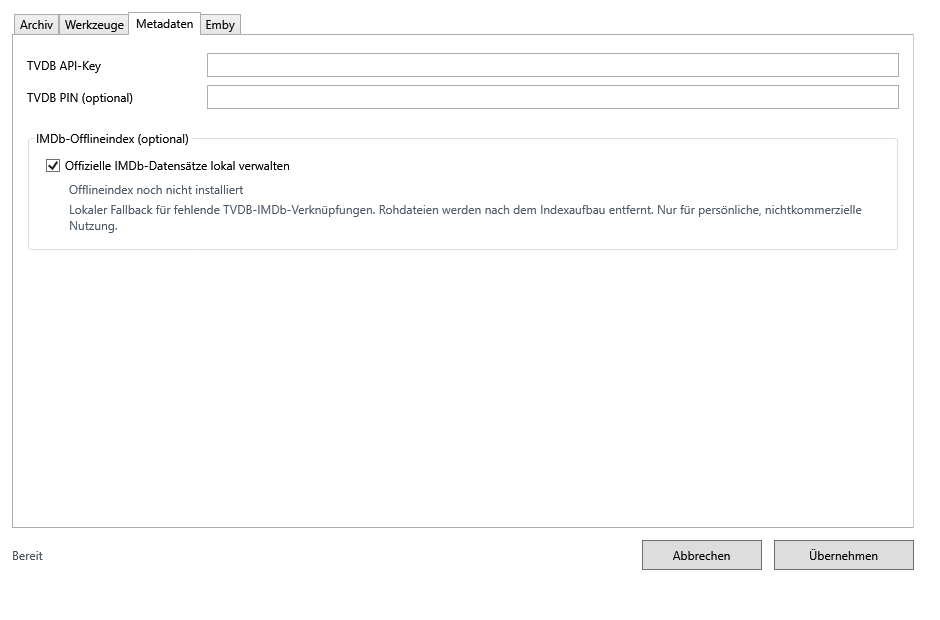
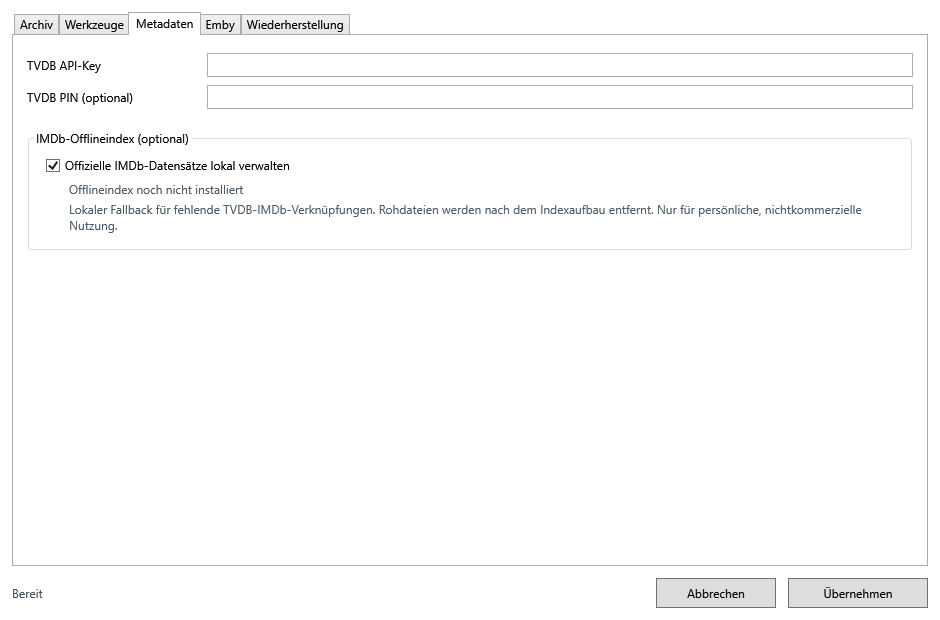
Render settings screenshots without native chrome gaps and validate image edges

diff --git a/tools/ReadmeScreenshotGenerator/Program.cs b/tools/ReadmeScreenshotGenerator/Program.cs
@@ -145,44 +145,53 @@ internal static class Program
             PixelFormats.Pbgra32);
         renderBitmap.Render(host);
 
-        var outputPath = Path.Combine(outputDirectory, fileName);
-        using var stream = File.Create(outputPath);
-        var encoder = new PngBitmapEncoder();
-        encoder.Frames.Add(BitmapFrame.Create(renderBitmap));
-        encoder.Save(stream);
+        SaveScreenshot(outputDirectory, fileName, renderBitmap);
     }
 
     /// <summary>
-    /// Rendert ein echtes WPF-Fenster ohne sichtbares Aktivieren. Das einmalige Offscreen-Öffnen ist
-    /// nötig, damit TabControl und Footer ihre produktiven Größen erhalten, bevor das Client-Visual
-    /// in die Bitmap geschrieben wird.
+    /// Rendert den echten Dialoginhalt mit fester Clientgröße ohne native Fensterrahmen.
+    /// Window.ActualHeight enthält nicht gerenderte Chrome-Pixel und erzeugt sonst leere Ränder.
     /// </summary>
     private static void RenderWindowScreenshot(
         string outputDirectory,
         string fileName,
         Window window)
     {
-        window.WindowStartupLocation = WindowStartupLocation.Manual;
-        window.Left = -32000;
-        window.Top = -32000;
-        window.Height = 620;
-        window.Background = Brushes.White;
-        window.ShowActivated = false;
-        window.ShowInTaskbar = false;
-        window.Show();
+        var content = (FrameworkElement)window.Content;
+        content.DataContext = window.DataContext;
+        window.Content = null;
+        var host = new Border { Background = Brushes.White, Child = content };
+        var width = (int)window.Width;
+        const int height = 620;
+        host.Measure(new Size(width, height));
+        host.Arrange(new Rect(0, 0, width, height));
+        host.UpdateLayout();
         DrainDispatcher();
-
-        window.UpdateLayout();
-        var width = Math.Max(1, (int)Math.Ceiling(window.ActualWidth));
-        var height = Math.Max(1, (int)Math.Ceiling(window.ActualHeight));
         var renderBitmap = new RenderTargetBitmap(
             width,
             height,
             96,
             96,
             PixelFormats.Pbgra32);
-        renderBitmap.Render(window);
+        renderBitmap.Render(host);
 
+        SaveScreenshot(outputDirectory, fileName, renderBitmap);
+    }
+
+    private static void SaveScreenshot(string outputDirectory, string fileName, RenderTargetBitmap renderBitmap)
+    {
+        // Rounded corners may be transparent, but the middle of every image edge must be painted.
+        // This is also exercised by the CI screenshot smoke run, without platform-specific PNG diffs.
+        var pixel = new byte[4];
+        foreach (var point in new[]
+                 {
+                     new Point(renderBitmap.PixelWidth / 2, 0), new Point(renderBitmap.PixelWidth / 2, renderBitmap.PixelHeight - 1),
+                     new Point(0, renderBitmap.PixelHeight / 2), new Point(renderBitmap.PixelWidth - 1, renderBitmap.PixelHeight / 2)
+                 })
+        {
+            renderBitmap.CopyPixels(new Int32Rect((int)point.X, (int)point.Y, 1, 1), pixel, 4, 0);
+            if (pixel[3] == 0) throw new InvalidOperationException($"Unpainted screenshot edge: {fileName} at {point}.");
+        }
         var outputPath = Path.Combine(outputDirectory, fileName);
         using var stream = File.Create(outputPath);
         var encoder = new PngBitmapEncoder();

diff --git a/tools/ReadmeScreenshotGenerator/DemoModels.cs b/tools/ReadmeScreenshotGenerator/DemoModels.cs
@@ -278,10 +278,10 @@ internal sealed class DemoEmbySyncViewModel
 {
     public bool IsInteractive { get; init; }
     // Die Demo zeigt den Ruhezustand. Ohne diese Bindung würde WPF den Abbruchbutton
-    // trotz fehlenden Scans anzeigen und unnötig Platz in der Aktionsleiste belegen.
-    public bool CanCancelScan { get; init; }
-    public ICommand CancelScanCommand { get; init; } = new NoOpRelayCommand();
-    public string CancelScanTooltip { get; init; } = string.Empty;
+    // trotz fehlenden Vorgangs anzeigen und unnötig Platz in der Aktionsleiste belegen.
+    public bool CanCancelOperation { get; init; }
+    public ICommand CancelOperationCommand { get; init; } = new NoOpRelayCommand();
+    public string CancelOperationTooltip { get; init; } = string.Empty;
     public string ProgressDisplayText { get; init; } = string.Empty;
     public string ReportPath { get; init; } = string.Empty;
     public string ReportSelectionSummaryText { get; init; } = string.Empty;
